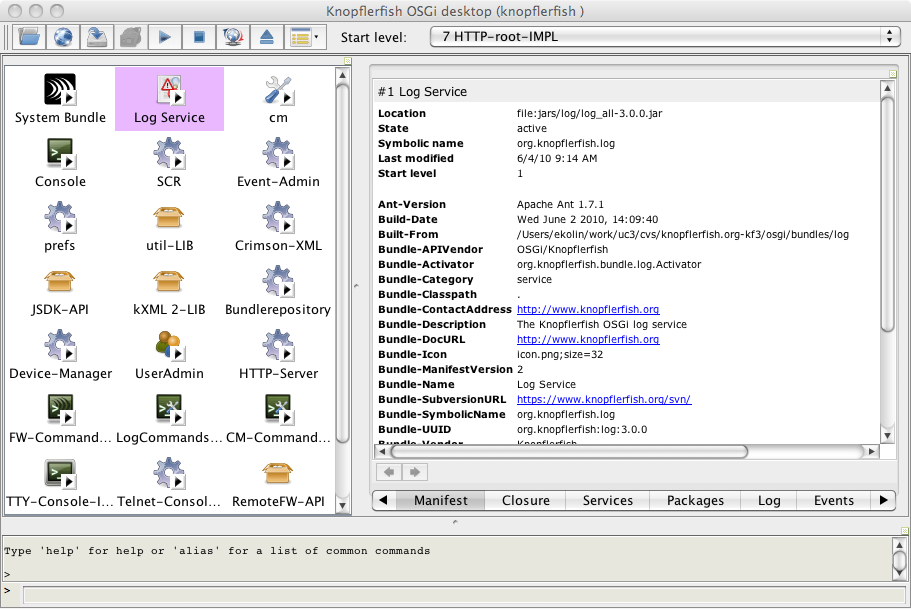
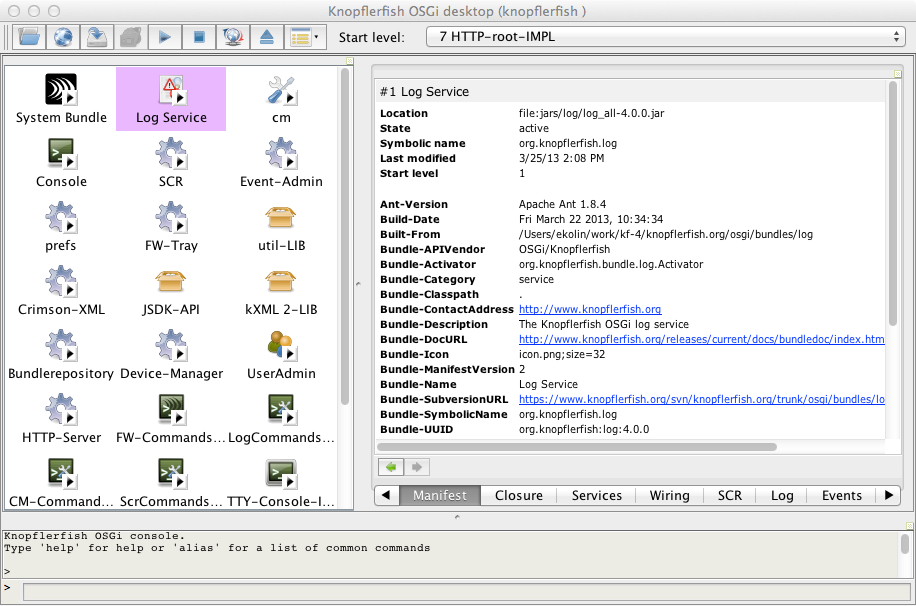
Don't start the Package view by default. Add property for specifying extra displayers. Document the deskptio displayer property. Update doc images. Remove the obsolete docs directory.

diff --git a/knopflerfish.org/branches/kf_osgi43/osgi/bundles/desktop/doc/index.html b/knopflerfish.org/branches/kf_osgi43/osgi/bundles/desktop/doc/index.html
@@ -69,7 +69,7 @@
 	<li>Manifest</li>
 	<li>Bundle closure</li>
 	<li>Services, i.e imported/exported services</li>
-	<li>Packages, i.e. imported/exported packages</li>
+	<li>Capabilities and wires, i.e. provided and required capabilites</li>
 	<li>SCR, i.e. declarative service components</li>
 	<li>Log, i.e. bundle logs</li>
 	<li>Events</li>
@@ -81,8 +81,8 @@
     <dd>
       The bottom console area allows interaction with the
       text console. This console acts exactly as
-      the <a href="../console/index.html">consoltty</a> bundle, but does not require a shell or
-      DOS window to run. 
+      the <a href="../console/index.html">consoltty</a> bundle, but
+      does not require a shell or DOS window to run. 
     </dd>
   </dl>
 <p>
@@ -220,18 +220,20 @@ View -&gt; Graph
     <th>Value type</th>
     <th>Default value</th>
   </tr>
+
   <tr>
-    <td>org.knopflerfish.bundle.desktop.event.EventTableModel.capacity</td>
+    <td>org.knopflerfish.bundle.log.window.impl.LogTableModel.capacity</td>
     <td>
 
-	The maximum number of events to keep in memory in one event
+	The maximum number of log entries to keep in memory in one log
 	view. Use a negative value (i.e., a value smaller than 1) to
-	indicate that old event shall never be removed.
+	indicate that old entries shall never be removed.
 
     </td>
     <td>int</td>
     <td>342</td>
   </tr>
+
   <tr>
     <td>org.knopflerfish.desktop.display.large_icons.sort</td>
     <td>
@@ -255,6 +257,54 @@ View -&gt; Graph
     <td>String</td>
     <td>id</td>
   </tr>
+
+  <tr>
+    <td>org.knopflerfish.desktop.displays</td>
+    <td>
+
+	A white-space separated list of built in desktop displays to
+	instantiate on startup. Each item in the list is the full
+	class name of a displayer.
+
+    </td>
+    <td>String</td>
+    <td>
+	org.knopflerfish.bundle.desktop.swing.LargeIconsDisplayer
+	org.knopflerfish.bundle.desktop.swing.GraphDisplayer
+	org.knopflerfish.bundle.desktop.swing.TableDisplayer
+	org.knopflerfish.bundle.desktop.swing.ManifestHTMLDisplayer
+	org.knopflerfish.bundle.desktop.swing.ClosureHTMLDisplayer
+	org.knopflerfish.bundle.desktop.swing.ServiceHTMLDisplayer
+	org.knopflerfish.bundle.desktop.swing.WiringHTMLDisplayer
+	org.knopflerfish.bundle.desktop.swing.SCRHTMLDisplayer
+	org.knopflerfish.bundle.desktop.swing.LogDisplayer
+	org.knopflerfish.bundle.desktop.swing.EventDisplayer
+	org.knopflerfish.bundle.desktop.swing.PrefsDisplayer
+    </td>
+  </tr>
+
+  <tr>
+    <td>org.knopflerfish.desktop.displays.extra</td>
+    <td>
+
+	A white-space separated list of additional built in desktop
+	displays to instantiate on startup. Each item in the list is
+	the full class name of a displayer. Use this property when you
+	want to start all the default built in displayers and some
+	extra dislayer. This way you only need to specify the
+	additional displayer and not all of them.
+
+	<p>E.g.,
+<pre>
+	org.knopflerfish.bundle.desktop.swing.PackageHTMLDisplayer
+	org.knopflerfish.bundle.desktop.swing.SpinDisplayer
+</pre>
+	</p>
+    </td>
+    <td>String</td>
+    <td></td>
+  </tr>
+
   <tr>
     <td>org.knopflerfish.desktop.display.main</td>
     <td>
@@ -266,16 +316,18 @@ View -&gt; Graph
     <td>String</td>
     <td>Large Icons</td>
   </tr>
+
   <tr>
-    <td>org.knopflerfish.bundle.log.window.impl.LogTableModel.capacity</td>
+    <td>org.knopflerfish.bundle.desktop.event.EventTableModel.capacity</td>
     <td>
 
-	The maximum number of log entries to keep in memory in one log
+	The maximum number of events to keep in memory in one event
 	view. Use a negative value (i.e., a value smaller than 1) to
-	indicate that old entries shall never be removed.
+	indicate that old event shall never be removed.
 
     </td>
     <td>int</td>
     <td>342</td>
   </tr>
+
 </table>

diff --git a/knopflerfish.org/branches/kf_osgi43/osgi/bundles/desktop/src/org/knopflerfish/bundle/desktop/swing/Activator.java b/knopflerfish.org/branches/kf_osgi43/osgi/bundles/desktop/src/org/knopflerfish/bundle/desktop/swing/Activator.java
@@ -38,7 +38,6 @@ import java.lang.reflect.Constructor;
 import java.util.ArrayList;
 import java.util.Enumeration;
 import java.util.HashMap;
-import java.util.Iterator;
 import java.util.Map;
 import java.util.Properties;
 import java.util.StringTokenizer;
@@ -108,20 +107,20 @@ public class Activator
   }
 
   public static Bundle[] getBundles() {
-    BundleContext bc = getTargetBC();
+    final BundleContext bc = getTargetBC();
     if (null==bc) {
       // May happen during stop, when processing events that has been queued.
       return new Bundle[0];
     }
     Bundle[] bl = bc.getBundles();
     if(bundleFilter != null) {
-      ArrayList<Bundle> al = new ArrayList<Bundle>();
+      final ArrayList<Bundle> al = new ArrayList<Bundle>();
       for(int i = 0; bl != null && i < bl.length; i++) {
         if(bundleFilter.accept(bl[i])) {
           al.add(bl[i]);
         }
       }
-      Bundle[] bl2 = new Bundle[al.size()];
+      final Bundle[] bl2 = new Bundle[al.size()];
       al.toArray(bl2);
       bl = bl2;
     }
@@ -137,7 +136,7 @@ public class Activator
     if(null != tbc) {
       try {
         return tbc.getServiceReferences((String) null, null);
-      } catch (InvalidSyntaxException ise) {
+      } catch (final InvalidSyntaxException ise) {
         // Will not happen in this case!
       }
     }
@@ -173,7 +172,7 @@ public class Activator
 
   /**
    * Get default service reference from the target BC.
-   * @return 
+   * @return
    */
   public static <T> T getTargetBC_getService(final ServiceReference<T> sr)
   {
@@ -239,7 +238,7 @@ public class Activator
 
   public static Map<String, String> getSystemProperties() {
     if(getTargetBC() != getBC()) {
-      RemoteFramework rc = remoteTracker.getService();
+      final RemoteFramework rc = remoteTracker.getService();
       return rc.getSystemProperties(getTargetBC());
     } else {
       // There is no method in BundleContext that enumerates
@@ -247,7 +246,7 @@ public class Activator
       final Properties props = System.getProperties();
       final Map<String, String> map = new HashMap<String, String>();
 
-      for(Enumeration<?> e = props.keys(); e.hasMoreElements();) {
+      for(final Enumeration<?> e = props.keys(); e.hasMoreElements();) {
         final String key = (String)e.nextElement();
         // We want local property values that applies to this instance
         // of the framework.
@@ -262,7 +261,7 @@ public class Activator
       if (null!=fwPropKeys) {
         final StringTokenizer st = new StringTokenizer(fwPropKeys,",");
         while (st.hasMoreTokens()) {
-          final String key = ((String) st.nextToken()).trim();
+          final String key = st.nextToken().trim();
           final String val = getBC().getProperty(key);
           map.put(key, val);
         }
@@ -287,7 +286,7 @@ public class Activator
     if(host.equals(remoteHost)) {
       return _remoteBC;
     }
-    RemoteFramework rc = remoteTracker.getService();
+    final RemoteFramework rc = remoteTracker.getService();
     if(rc != null) {
       try {
         Activator.myself.closeDesktop();
@@ -297,7 +296,7 @@ public class Activator
           _remoteBC = rc.connect(host);
         }
         remoteHost = host;
-      } catch (Exception e) {
+      } catch (final Exception e) {
         log.error("Failed to connect to " + host);
       }
 
@@ -325,7 +324,7 @@ public class Activator
       if(null == System.getProperty("swing.aatext")) {
         System.setProperty("swing.aatext","true");
       }
-    } catch (Exception ignored) {
+    } catch (final Exception ignored) {
     }
 
     Activator.log       = new LogRef(bc);
@@ -333,22 +332,24 @@ public class Activator
 
     remoteTracker = new ServiceTracker<RemoteFramework, RemoteFramework>(bc,
         RemoteFramework.class, null) {
+      @Override
       public RemoteFramework addingService(ServiceReference<RemoteFramework> sr)
       {
-        RemoteFramework obj = super.addingService(sr);
+        final RemoteFramework obj = super.addingService(sr);
         try {
           desktop.setRemote(true);
-        } catch (Exception e) {
+        } catch (final Exception e) {
         }
         return obj;
       }
 
+      @Override
       public void removedService(ServiceReference<RemoteFramework> sr,
                                  RemoteFramework service)
       {
         try {
           desktop.setRemote(false);
-        } catch (Exception e) {
+        } catch (final Exception e) {
         }
         super.removedService(sr, service);
       }
@@ -386,11 +387,11 @@ public class Activator
       LargeIconsDisplayer.class.getName(),
       GraphDisplayer.class.getName(),
       TableDisplayer.class.getName(),
-      // SpinDisplayer.class.getName(),
+      //SpinDisplayer.class.getName(),
       ManifestHTMLDisplayer.class.getName(),
       ClosureHTMLDisplayer.class.getName(),
       ServiceHTMLDisplayer.class.getName(),
-      PackageHTMLDisplayer.class.getName(),
+      //PackageHTMLDisplayer.class.getName(),
       WiringHTMLDisplayer.class.getName(),
       SCRHTMLDisplayer.class.getName(),
       LogDisplayer.class.getName(),
@@ -398,22 +399,36 @@ public class Activator
       PrefsDisplayer.class.getName(),
     };
 
-    String dispsS = Util.getProperty("org.knopflerfish.desktop.displays", "").trim();
-
-    if(dispsS != null && dispsS.length() > 0) {
+    final String dispsS =
+      Util.getProperty("org.knopflerfish.desktop.displays", "").trim();
+    if(dispsS.length() > 0) {
       dispClassNames = Text.splitwords(dispsS, "\n\t ", '\"');
     }
 
-    for(int i = 0; i < dispClassNames.length; i++) {
-      String className = dispClassNames[i];
-      try {
-        Class<?>       clazz = Class.forName(className);
-        Constructor<?> cons  = clazz.getConstructor(new Class[] { BundleContext.class });
+    final String dispsES =
+        Util.getProperty("org.knopflerfish.desktop.displays.extra", "").trim();
+    if (dispsES.length() > 0) {
+      final String[] extraDisps = Text.splitwords(dispsES, "\n\t ", '\"');
+      final String[] tmp =
+        new String[dispClassNames.length + extraDisps.length];
+      System.arraycopy(dispClassNames, 0, tmp, 0, dispClassNames.length);
+      System.arraycopy(extraDisps, 0, tmp, dispClassNames.length,
+                       extraDisps.length);
+      dispClassNames = tmp;
+    }
 
-        disp = (DefaultSwingBundleDisplayer)cons.newInstance(new Object[] { getTargetBC() });
+    for (final String className : dispClassNames) {
+      try {
+        final Class<?> clazz = Class.forName(className);
+        final Constructor<?> cons =
+          clazz.getConstructor(new Class[] { BundleContext.class });
+
+        disp =
+          (DefaultSwingBundleDisplayer) cons
+              .newInstance(new Object[] { getTargetBC() });
         reg = disp.register();
         displayers.put(disp, reg);
-      } catch (Exception e) {
+      } catch (final Exception e) {
         log.warn("Failed to create displayer " + className, e);
       }
     }
@@ -466,24 +481,20 @@ public class Activator
         }
       }
 
-      for(Iterator<DefaultSwingBundleDisplayer> it = displayers.keySet().iterator(); it.hasNext();) {
-        DefaultSwingBundleDisplayer disp
-          = it.next();
-        //ServiceRegistration reg = (ServiceRegistration)displayers.get(disp);
-
+      for (final DefaultSwingBundleDisplayer disp : displayers.keySet()) {
         disp.unregister();
       }
       displayers.clear();
 
       if(_remoteBC != null) {
-        RemoteFramework rc = remoteTracker.getService();
+        final RemoteFramework rc = remoteTracker.getService();
         if(rc != null) {
           rc.disconnect(_remoteBC);
         }
         _remoteBC = null;
       }
 
-    } catch (Exception e) {
+    } catch (final Exception e) {
       log.error("Failed to close desktop", e);
     }
   }
@@ -506,7 +517,7 @@ public class Activator
           Activator.log.close();
           Activator.log = null;
         }
-      } catch (Exception e) {
+      } catch (final Exception e) {
         e.printStackTrace();
       }
     }
